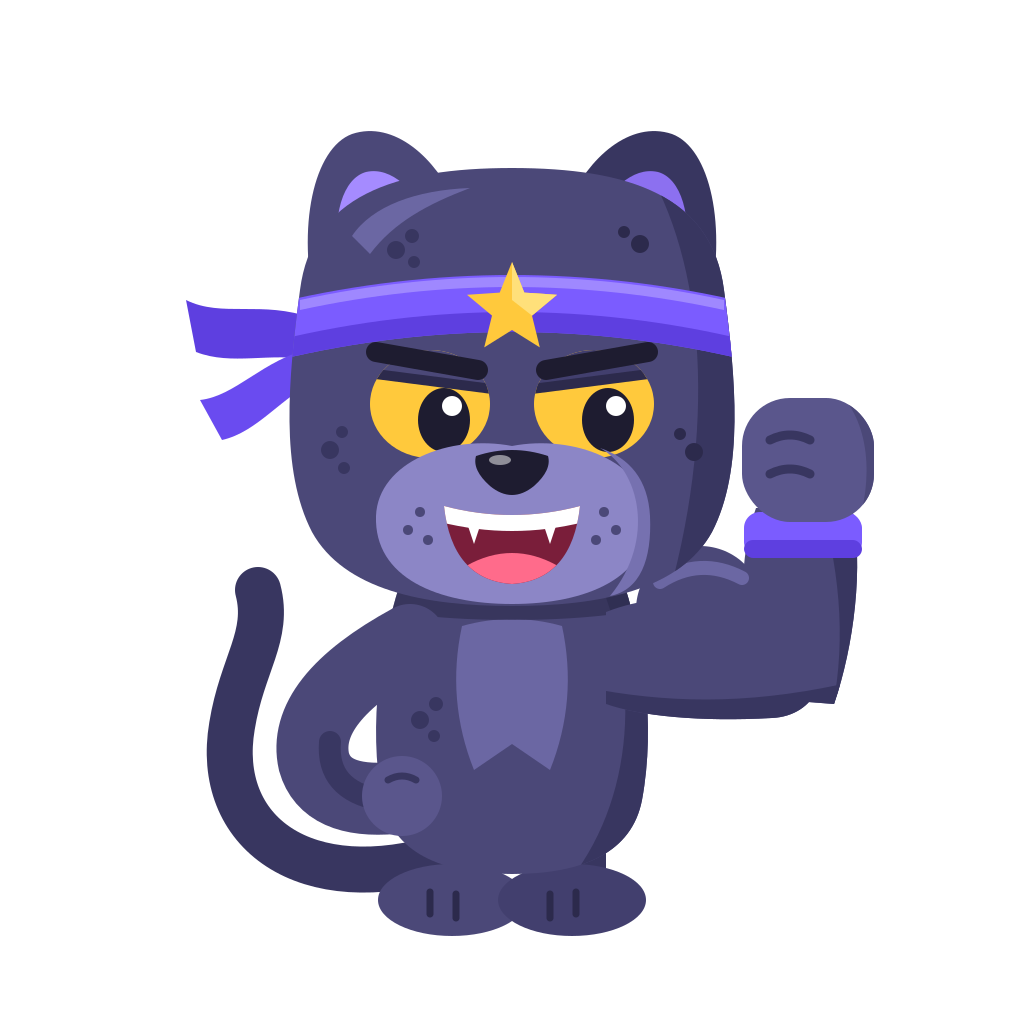
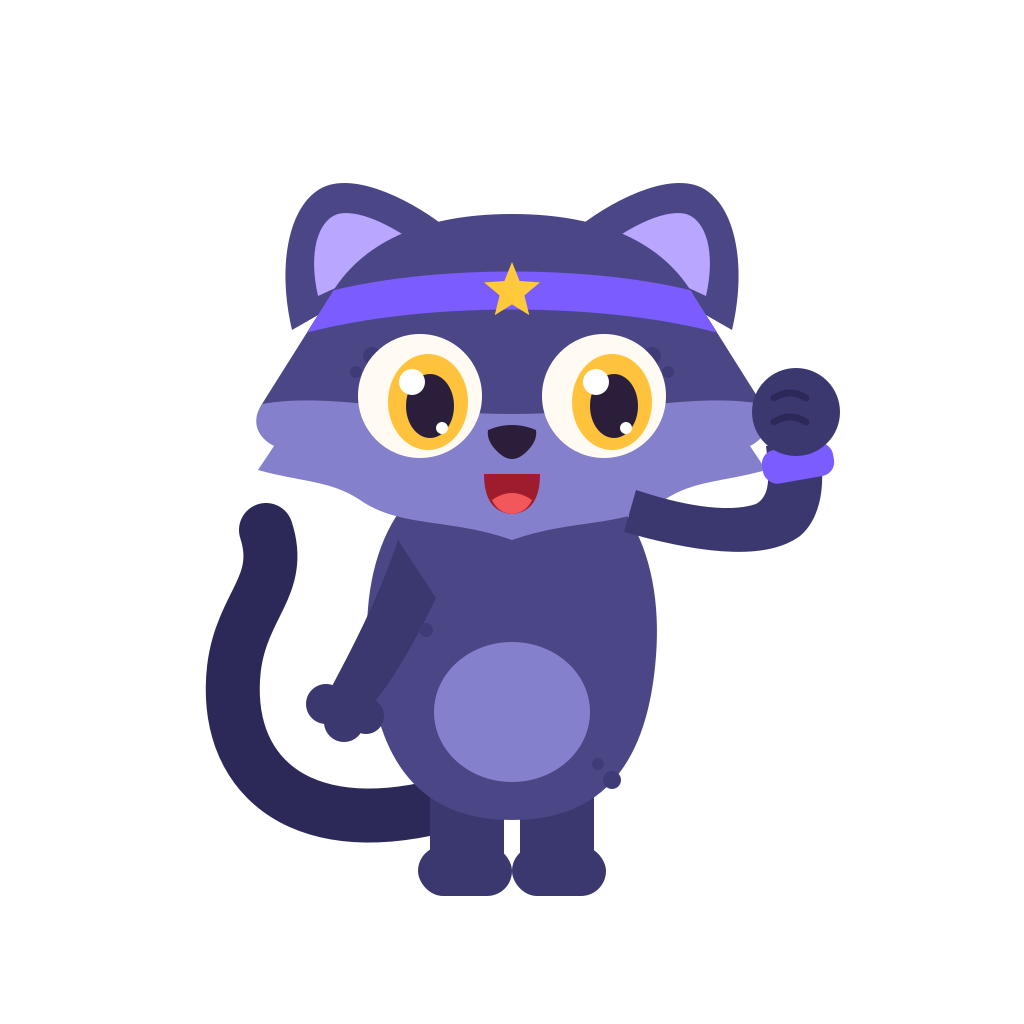
feat(astrafit): restyle panther mascot after the fox mascot reference
Soft geometric flat style with no outlines or gradients: three fur tones,
cheek band, belly patch, big gold eyes, small open smile, sweatband with a
star and a fist pump.

Claude-Session: https://claude.ai/code/session_01BSt1KHA8UY16qTmcx16Hrn

Changed region(s): [[0.1875, 0.125, 0.875, 0.9375]]

diff --git a/astrafit/CLAUDE.md b/astrafit/CLAUDE.md
@@ -17,12 +17,13 @@ mascot/
   render_mascot.py    # SVG -> panther_1024.png / panther_2048.png (transparent), needs `pip install cairosvg`
 ```
 
-## Mascot v2 — panther (current)
+## Mascot v3 — panther (current)
 
-Style follows the owner's reference (Duolingo-like achievement art): flat colours, **no outlines**,
-chunky rounded shapes, hard-edged shade shapes on the right side, big expressive eyes with heavy lids,
-open grin, exaggerated pose. v1 (outlined cartoon) is in git history.
-Chibi black panther flexing one arm, paw on hip. Palette: fur #4B4878 / shade #383660 / light #6B67A3,
-muzzle #8C86C6, pupils/brows/nose #1E1C30, eyes gold #FFC93C, AstraFit violet #7B5CFF (headband,
-wristband), inner ears #A58BFF, gold star #FFC93C, mouth #7A1E3A, tongue #FF6B8B.
-Fur stays violet-indigo (not black) so it reads on the app's dark background.
+Style follows the owner's reference: Dribbble "Fox App Mascot and Logo Design" (Manu) — soft geometric
+flat shapes, **no outlines, no gradients**, 3 tones of one fur hue (base / limbs+ears / tail), a lighter
+cheek band with a wavy bottom edge that flares to cheek points, lighter round belly patch, big round eyes
+(cream sclera, here a gold iris, dark pupil, one big + one small highlight), tiny nose, small open "D" mouth.
+v1 (outlined cartoon) and v2 (Duolingo-like) are in git history.
+Palette: fur #4B4787, limbs/legs #3B3870, tail/creases #2C2959, cheek band + belly #8580CC,
+rosette spots #3F3B78, inner ears #B9A6FF, AstraFit violet #7B5CFF (sweatband, wristband), star #FFC93C,
+sclera #FFFBF2, iris #FFC23C, pupils/nose #2B1E3A, mouth #9E1C2B, tongue #F2585B.
